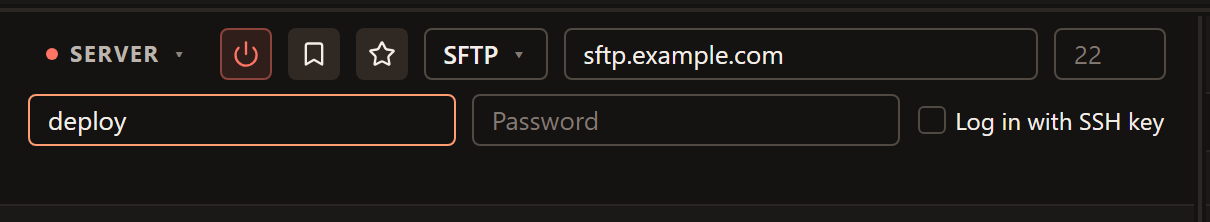
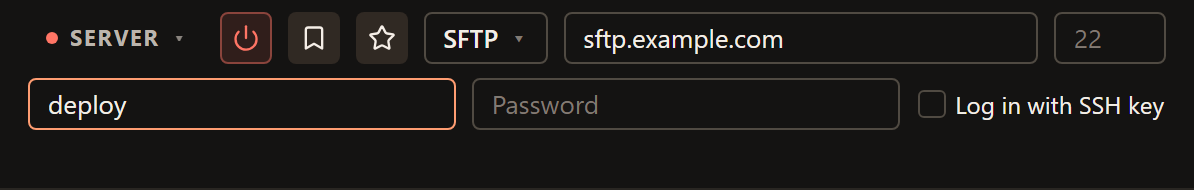
Focus guide illustrations on the relevant controls

Changed region(s): [[0.031, 0.0526, 0.9916, 0.3684], [0.0, 0.3947, 0.7747, 0.6842], [0.7437, 0.4737, 0.9916, 0.6316]]

diff --git a/site/guide.css b/site/guide.css
@@ -32,7 +32,7 @@
 .guide-content blockquote { margin: 24px 0; padding-left: 20px; border-left: 3px solid var(--peach); color: var(--muted); }
 .guide-callout { margin: 24px 0; }
 .guide-callout > :last-child { margin-bottom: 0; }
-.guide-content img { max-width: 100%; max-height: 480px; width: auto; height: auto; border: 1px solid var(--line); border-radius: 10px; }
+.guide-content img { max-width: 100%; max-height: 480px; width: auto; height: auto; }
 .guide-content p:has(> a > img) { margin: 24px 0 8px; }
 .guide-content p:has(> a > img) + p { font-size: 15px; line-height: 1.6; color: var(--muted); }
 .guide-content a:has(> img) { cursor: zoom-in; }

diff --git a/CHANGELOG.md b/CHANGELOG.md
@@ -9,7 +9,7 @@ The format is based on [Keep a Changelog](https://keepachangelog.com/en/1.1.0/),
 - Compare FTPeach, FileZilla Client and WinSCP on a dedicated website page.
 
 - The website's user guide covers everyday tasks, password protection and common problems,
-  with collapsible navigation, clear warnings and screenshots that enlarge on the page.
+  with collapsible navigation, clear warnings and focused screenshots that enlarge on the page.
 - Protocol guides cover FTP data modes, FTPS certificates, SFTP keys, WebDAV setup and common connection errors.
 - The user guide includes a protocol reference with compatibility and transfer limits.
 

diff --git a/docs/guide/editing.md b/docs/guide/editing.md
@@ -23,7 +23,7 @@ Check that you have permission to replace the server copy.
 5. Check the upload result and, where appropriate, check the file in the system
    that uses it, such as the website or application you are updating.
 
-[![The server file menu with Open and Open with at the top.](../../site/images/guide/remote-file-menu.png)](../../site/images/guide/remote-file-menu.png)
+[![Open and Open with in the server file menu.](../../site/images/guide/remote-file-menu.png)](../../site/images/guide/remote-file-menu.png)
 
 Use **Open** for the usual application, or **Open with** to choose a program.
 

diff --git a/docs/guide/transfers.md b/docs/guide/transfers.md
@@ -12,7 +12,7 @@ folders you want to send.
 | Server → computer | Download to other pane |
 | Server → another server | Copy to other pane |
 
-[![The local file menu with Upload to other pane below Open.](../../site/images/guide/upload-menu.png)](../../site/images/guide/upload-menu.png)
+[![Upload to other pane in the local file menu.](../../site/images/guide/upload-menu.png)](../../site/images/guide/upload-menu.png)
 
 Right-click the source selection. **Upload to other pane** sends it to the server
 folder open on the other side.
